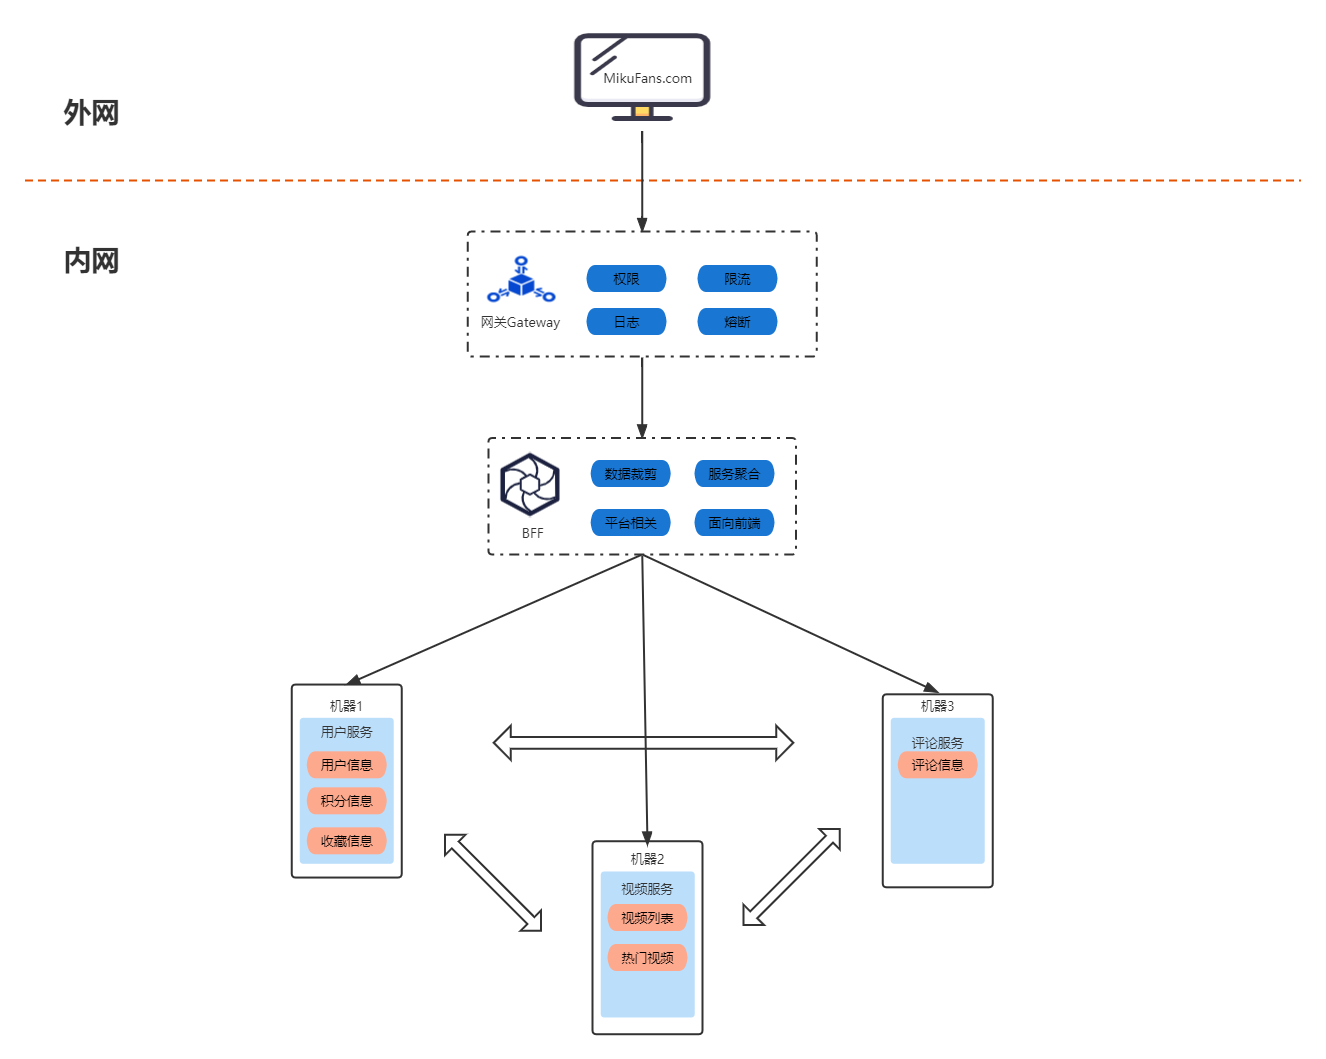
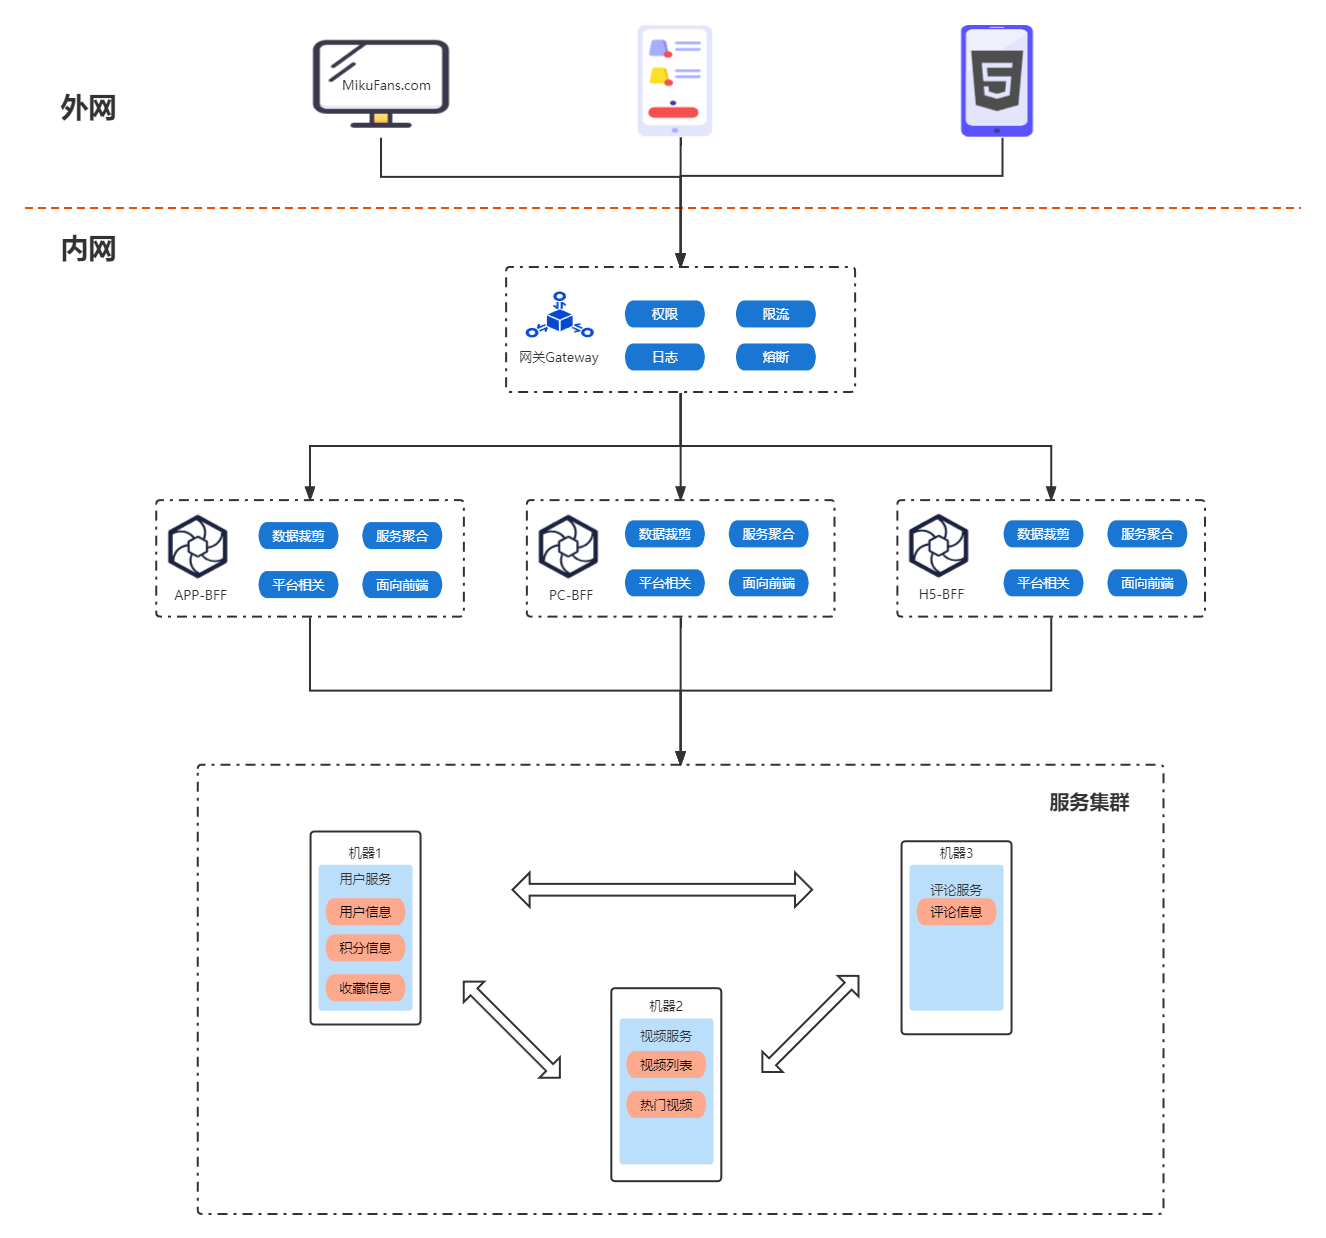
update

diff --git a/BackendEvolution.md b/BackendEvolution.md
@@ -1,5 +1,4 @@
 - [软件项目架构方案演进](#软件项目架构方案演进)
-  - [小徐的创业史](#小徐的创业史)
     - [阶段一: 单体应用](#阶段一-单体应用)
       - [前后端分离](#前后端分离)
     - [阶段二：分布式-垂直拆分](#阶段二分布式-垂直拆分)
@@ -22,14 +21,14 @@
 
 本章将以 _**架构风格**_ 的演进为主线，理清为什么会有这么多架构方案，他们又都解决了什么问题。  
 
-## 小徐的创业史
-我们假设有一个叫小徐的同学，他在互联网初期用Java创建了一个叫“MikuFans”的视频网站。  
+我们假设有一个叫王牛奶的同学，他在互联网初期用Java创建了一个叫“HiiroFans”的视频网站。  
+
 ### 阶段一: 单体应用
 ![alt 单体应用](./static/SingleApplication.png)  
 
 用户的请求经过代理后会打到某一台机器上，然后从JSP模板引擎拿到HTML渲染页面。  
 #### 前后端分离
-因为只有小徐一个人开发，所以前后端是模板引擎的合作方式。无论是页面、接口修改，都在一个项目里处理掉了，一个访问首页的接口大概是这样：
+因为只有王牛奶一个人开发，所以前后端是模板引擎的合作方式。无论是页面、接口修改，都在一个项目里处理掉了，一个访问首页的接口大概是这样：
 
 ```API
 GET /home.html
@@ -38,24 +37,24 @@ Response:
     <VideoComponent data={{Video}}/>
 </div>
 ```
-![模板引擎页面渲染流程](http://assets.processon.com/chart_image/6350fb3f7d9c08074760f067.png)
+![模板引擎页面渲染流程](./static/Loading-Template.png)
 
 
-小徐开发的很开心，有什么功能先后端在一个项目里，一梭子就搞完了。后来小徐招了一个前端来帮他分担工作。这位前端小伙伴只会写JS，不会Java。没法改Java项目里的模板页面。    
+王牛奶开发的很开心，有什么功能先后端在一个项目里，一梭子就搞完了。后来王牛奶招了一个前端来帮他分担工作。这位前端小伙伴只会写JS，不会Java。没法改Java项目里的模板页面。    
 
-经过沟通后他们决定前端小伙先写静态页面，写完之后把代码发给小徐，然后小徐把页面代码改成JSP模板引擎的语法。  
+经过沟通后他们决定前端小伙先写静态页面，写完之后把代码发给王牛奶，然后王牛奶把页面代码改成JSP模板引擎的语法。  
 
-![模板引擎工作方式](http://assets.processon.com/chart_image/6350fb121efad416789afc18.png)  
+![模板引擎工作方式](./static/Working-Template.png)  
 
-两个人开发迭代果然快很多，网站用户变多了，又开始扩充团队。这时候小徐开始忙不过来了，前端想改个颜色都得让小徐重新发布后端项目。小徐总结了下这种视图层和接口层混在一起的方案有这么几个问题：
+两个人开发迭代果然快很多，网站用户变多了，又开始扩充团队。这时候王牛奶开始忙不过来了，前端想改个颜色都得让王牛奶重新发布后端项目。王牛奶总结了下这种视图层和接口层混在一起的方案有这么几个问题：
 - 前后端职责不清晰，比如一些条件渲染、循环渲染，是js写还是java写？
 - 页面样式会频繁修改发版，但是后端服务希望越少发版越好，最好一周上线一次
 - 用户打开页面需要等后台数据查询完成，页面白屏时间比较长。
 - 对于线上出现的展示问题，前端无法单独排障，因为前端开发的是没有动态数据的静态页面
 
-这时候开始尝试把前端项目单独部署，小徐在线上给前端团队开了一台服务器，页面请求会被路由到这台服务器上，浏览器打开后再通过HTTP请求查询后台服务。整个请求的链路大概是这样的：  
+这时候开始尝试把前端项目单独部署，王牛奶在线上给前端团队开了一台服务器，页面请求会被路由到这台服务器上，浏览器打开后再通过HTTP请求查询后台服务。整个请求的链路大概是这样的：  
 
-![页面加载流程-前后端分离](http://assets.processon.com/chart_image/6350ec15e401fd06f77292da.png)  
+![页面加载流程-前后端分离](./static/Loading-Static.png)  
 
 改造后前端团队效率高了很多，带来了这些好处：  
 - 前端可以自己修改页面逻辑、发版
@@ -73,7 +72,7 @@ Response:
 ### 阶段二：分布式-垂直拆分
 随着功能迭代，产品模块越来越多，代码糅杂在一个项目里，牵一发动全身，每次上线回归测试都要测很久。而且热点业务大量的流量会占用性能资源，一些核心功能都会受影响，比如登录。  
 
-因此小徐开始了第二轮的架构优化，从功能模块来拆分，比如音视频模块、用户模块、评论模块等，每个模块独立部署，内部完成这个模块的业务逻辑，相互之间没有调用。  
+因此王牛奶开始了第二轮的架构优化，从功能模块来拆分，比如音视频模块、用户模块、评论模块等，每个模块独立部署，内部完成这个模块的业务逻辑，相互之间没有调用。  
 
 ![分布式-垂直拆分](./static//Distribution-SplitVertically.png)  
 
@@ -103,10 +102,10 @@ Response:
 - 所有微服务均是内部服务，唯一向外界暴露的是网关，因此权限、认证、限流等功能可以放在网关统一处理
 
 随着改造上线，代码模块非常清晰，但是也有一些随之而来的问题。  
-首先是项目过多，现有的后端团队没办法维护的过来了，另一个问题就是线上需要更多地机器部署，cicd流水线也变多了，运维团队忙不过来了。好在这时候有投资机构看中了这个项目，投了不少钱，于是小徐开始大力招人，MikuFans发展迅猛。  
+首先是项目过多，现有的后端团队没办法维护的过来了，另一个问题就是线上需要更多地机器部署，cicd流水线也变多了，运维团队忙不过来了。好在这时候有投资机构看中了这个项目，投了不少钱，于是王牛奶开始大力招人，HiiroFans发展迅猛。  
 
 ### 阶段四：引入服务聚合层（BFF）
-随着融资进行，小徐开始把目光瞄准手机端市场，PC虽然体验很好，但是现在手机使用时长已经远远大于PC，所以开始做APP、H5的产品。  
+随着融资进行，王牛奶开始把目光瞄准手机端市场，PC虽然体验很好，但是现在手机使用时长已经远远大于PC，所以开始做APP、H5的产品。  
 因为后端已经有业务接口了，所以后端在多加了几个登录方式后，就能被接入到APP、H5上。两个团队快速的做好页面，再调用PC端在用的接口就完成了产品开发上线。这时候页面基本是按照PC的结构，只是样式对手机做了些适配。  
 手机端产品果然带来了大量流量，但相应的投诉也很多，体验不好。于是产品开始针对APP、H5的使用流程做优化，重新设计了一些业务逻辑、页面路径。  
 大部分是前端团队的工作，包括：

diff --git a/resource/SinglePageApplication.md b/resource/SinglePageApplication.md
@@ -1,0 +1,4 @@
+# 前端架构演进
+## Jquery时代
+## MVVM时代
+## 
